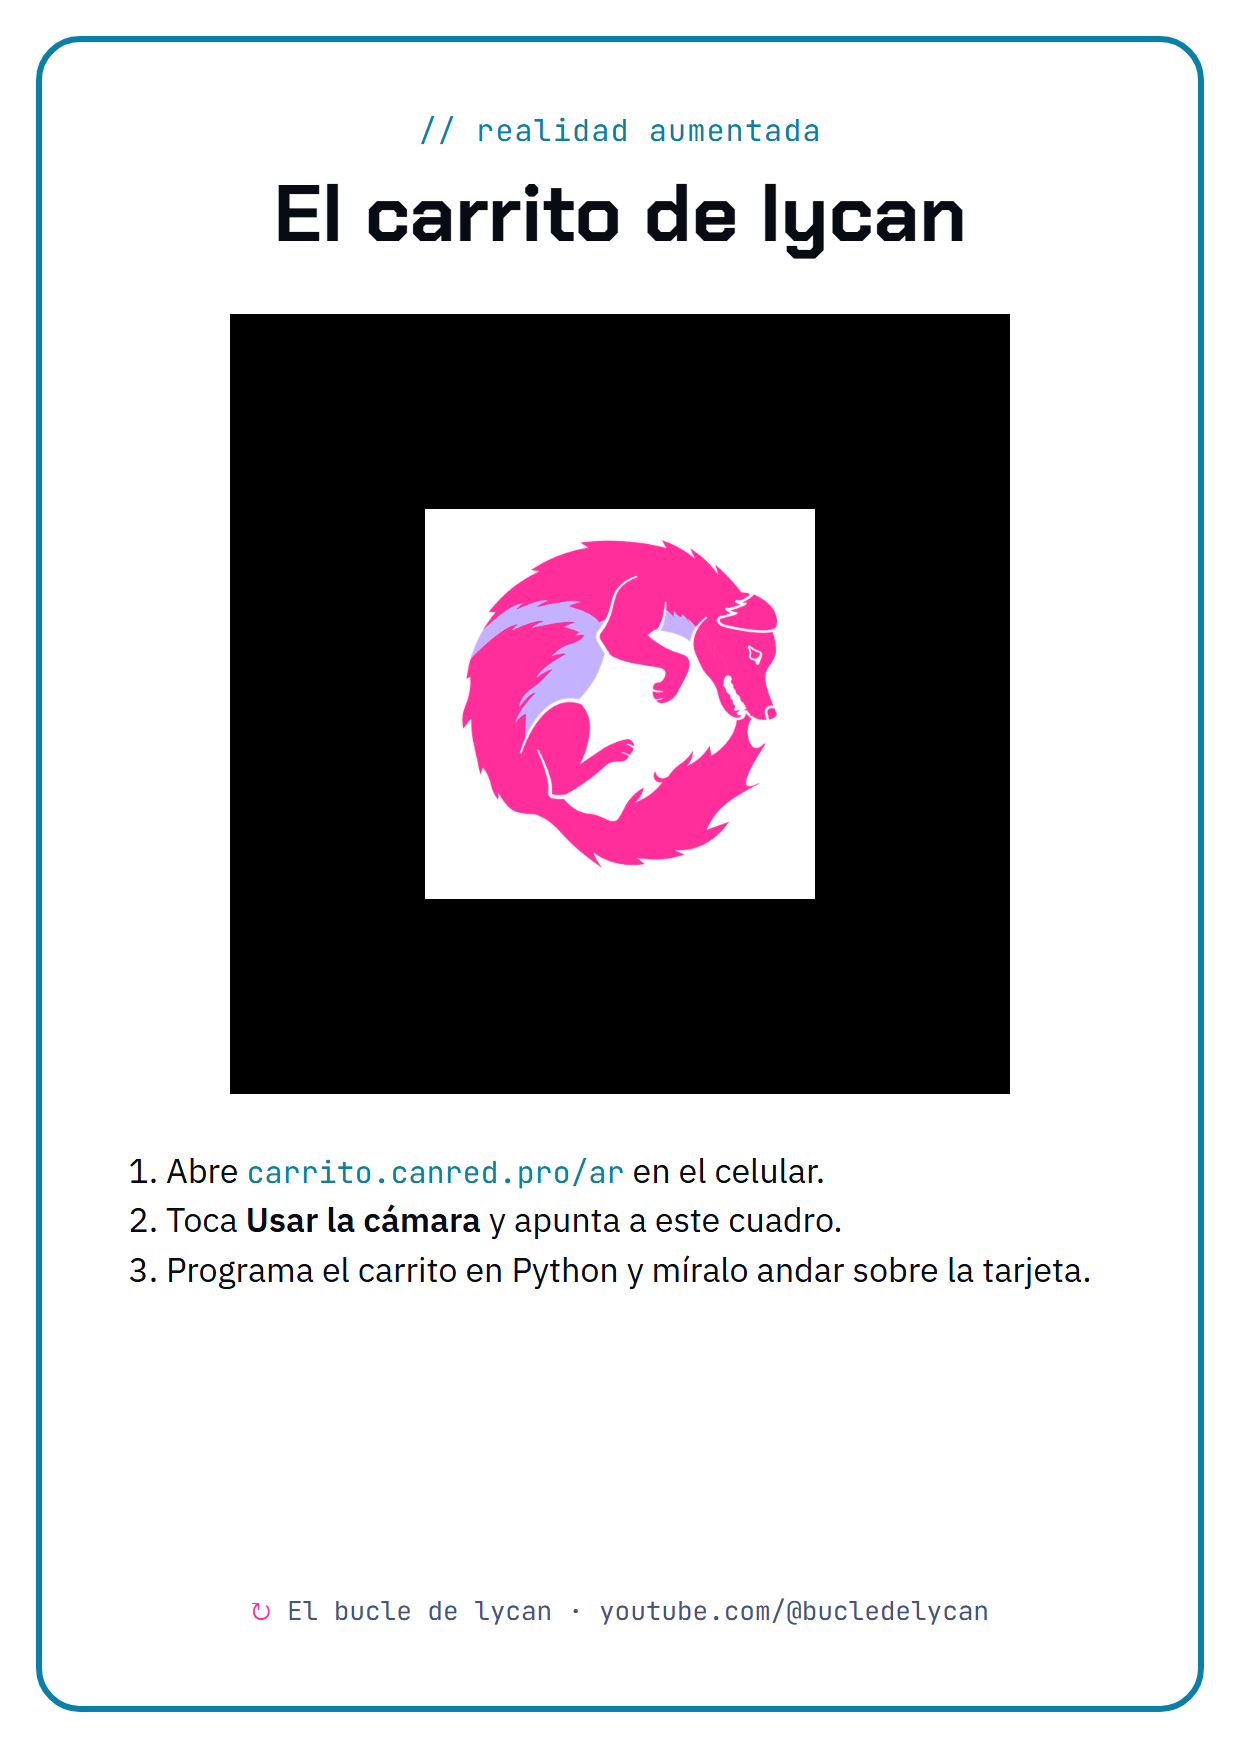
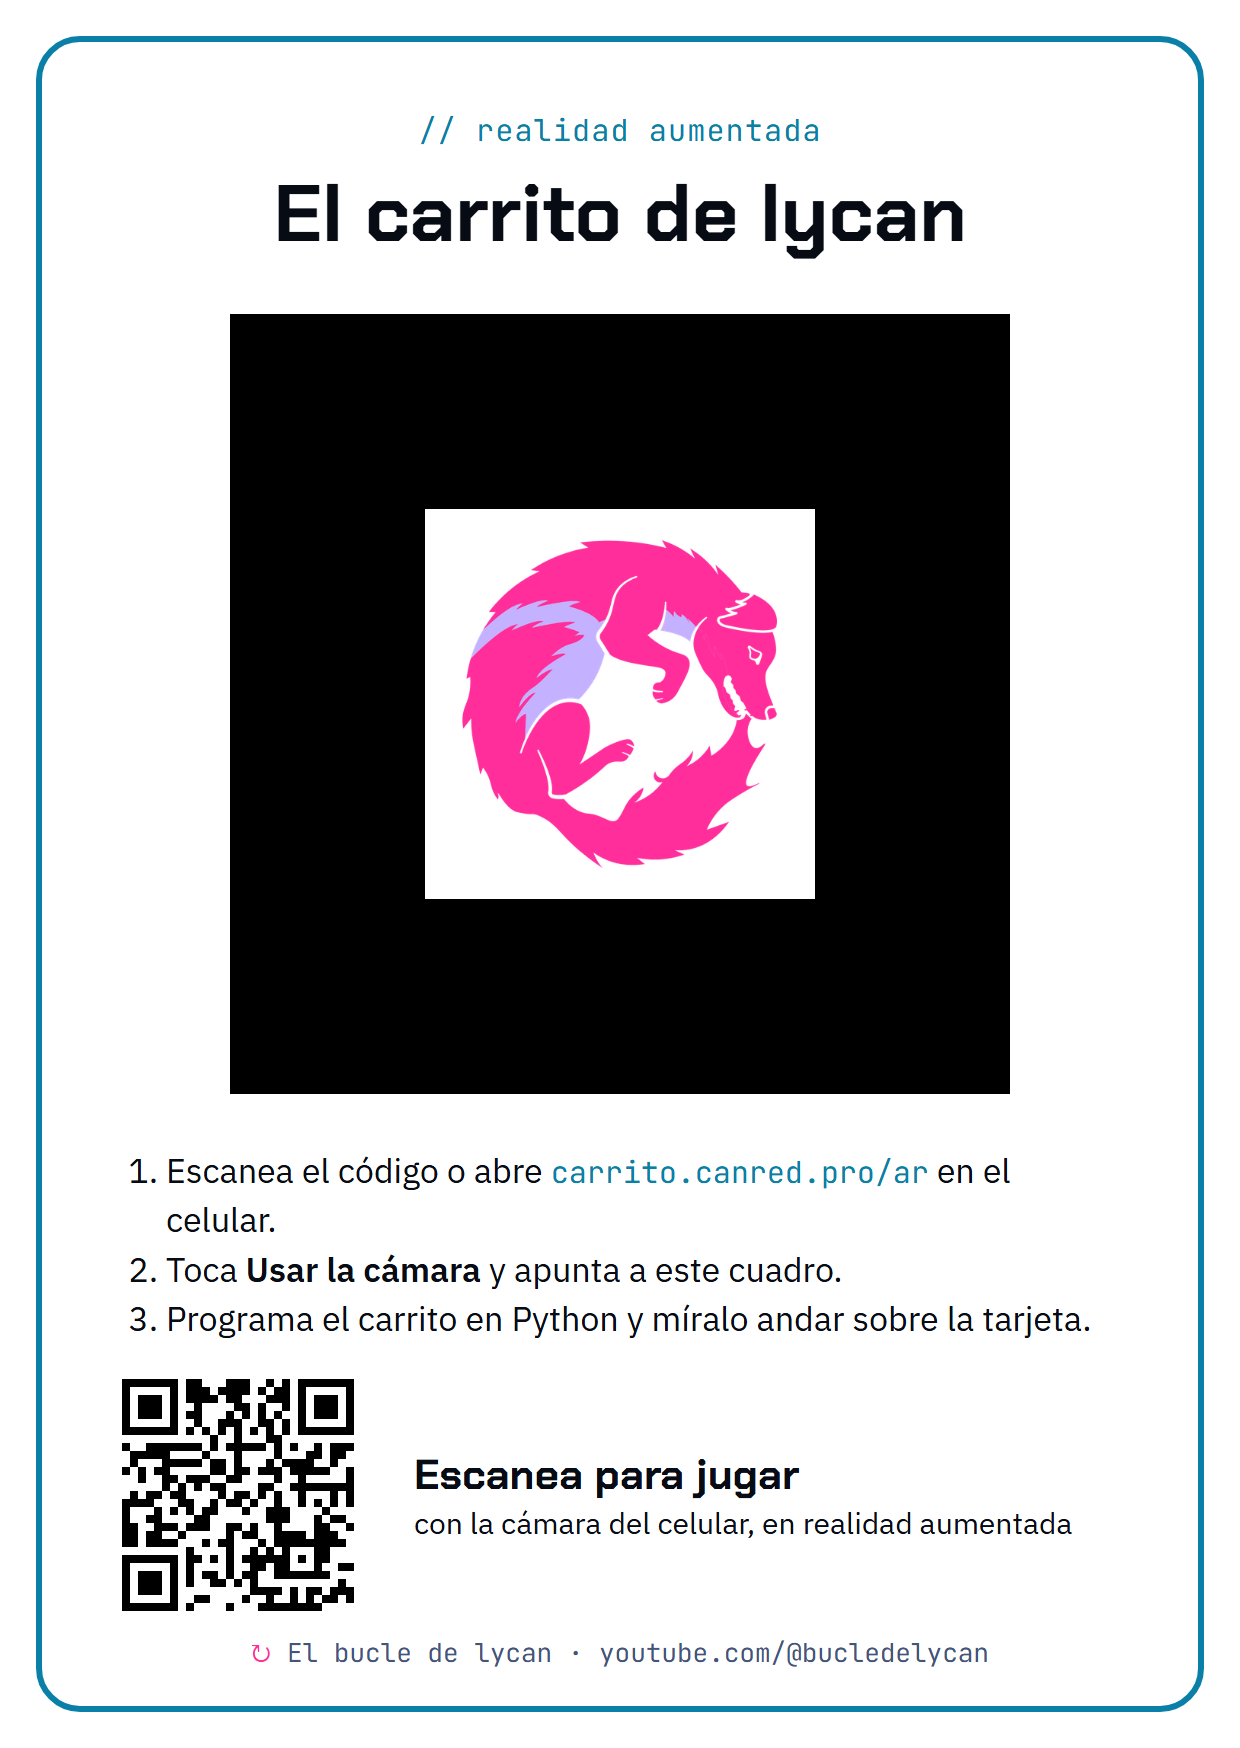
Realidad aumentada sin parpadeo ni temblor, y tarjeta con QR
La proyección de ARToolKit (near 0,0001) hacía titilar las capas de la
calle; la pose del marcador ahora se suaviza; la tarjeta lleva un QR a
carrito.canred.pro/ar y sus cuadrados ya no confunden la detección.

Changed region(s): [[0.0919, 0.6487, 0.8581, 0.9577], [0.3371, 0.8341, 0.8581, 0.9577]]

diff --git a/index.html b/index.html
@@ -2445,10 +2445,25 @@ async function rehacerContexto(){
   await new Promise(listo => nuevo.init(listo));
   const grupo = new THREE.Group();
   escena.add(grupo);
-  new modAR.ArMarkerControls(nuevo, grupo, {type:'pattern', patternUrl:'ar/tarjeta.patt', changeMatrixMode:'modelViewMatrix',
-    smooth:true, smoothCount:5, smoothTolerance:0.01, smoothThreshold:2});
+  new modAR.ArMarkerControls(nuevo, grupo, {type:'pattern', patternUrl:'ar/tarjeta.patt', changeMatrixMode:'modelViewMatrix'});
   if (marcador) escena.remove(marcador);
-  camara.projectionMatrix.copy(nuevo.getProjectionMatrix());
+  // ARToolKit arma la proyección con near 0,0001 y far 1000: así la profundidad no distingue capas que están a
+  // milímetros (la calle, sus rayas, la cebra, la losa) y titilan con la cámara en vivo. Near 0,05 y far 200,
+  // en lados de marcador, alcanzan de sobra para una tarjeta sobre la mesa.
+  const e = camara.projectionMatrix.copy(nuevo.getProjectionMatrix()).elements, cerca = 0.05, lejos = 200;
+  e[10] = -(lejos + cerca) / (lejos - cerca);
+  e[14] = -2 * lejos * cerca / (lejos - cerca);
+  camara.projectionMatrixInverse.copy(camara.projectionMatrix).invert();
+  // Los cuadrados de las esquinas del QR de la tarjeta también le parecen marcadores a ARToolKit: chicos y dudosos
+  // (en las pruebas, 75 px y confianza 0,59, contra 15.000 px y 0,995 del marcador). AR.js calcula la pose de cada
+  // candidato partiendo de la del anterior, así que uno malo arruinaba la del bueno. Ahora cada pose se calcula
+  // desde cero y los candidatos chicos o dudosos no llegan a AR.js.
+  const ar = nuevo.arController, avisar = ar.dispatchEvent.bind(ar);
+  ar.getTransMatSquareCont = ar.getTransMatSquare;
+  ar.dispatchEvent = ev => {
+    if (ev.name === 'getMarker' && ev.data.type === 0 && (ev.data.marker.cfPatt < 0.7 || ev.data.marker.area < 400)) return;
+    avisar(ev);
+  };
   contexto = nuevo; marcador = grupo; vertical = vh > vw; viendo = null;
 }
 
@@ -2497,8 +2512,7 @@ function cuadro(t){
     }
     if (fuente.ready && !rehaciendo) contexto.update(el);
     if (marcador.visible){
-      ancla.matrix.copy(marcador.matrix);
-      ancla.matrixWorldNeedsUpdate = true;
+      suavizar(marcador.matrix, t);
       ancla.visible = true;
     }
     if (marcador.visible !== viendo){
@@ -2515,6 +2529,24 @@ function cuadro(t){
   }
   animarCiudad(t);
   render.render(escena, camara);
+}
+
+// La pose del marcador trae ruido en cada cuadro, y como la ciudad mide varias veces la tarjeta, un temblor mínimo
+// del ángulo se nota en las orillas. Se sigue la pose con un paso que crece con lo que se movió: con la tarjeta
+// quieta casi no avanza (no tiembla) y al mover el celular la alcanza enseguida. Si se perdió un rato, salta.
+let pose = null, ultimaVista = -1e9;
+function suavizar(m, t){
+  pose ??= {p:new THREE.Vector3(), q:new THREE.Quaternion(), s:new THREE.Vector3(), P:new THREE.Vector3(), Q:new THREE.Quaternion(), S:new THREE.Vector3()};
+  m.decompose(pose.P, pose.Q, pose.S);
+  if (t - ultimaVista > 600){ pose.p.copy(pose.P); pose.q.copy(pose.Q); pose.s.copy(pose.S); }
+  else {
+    const mov = pose.p.distanceTo(pose.P) / Math.max(0.5, pose.p.length()), giro = pose.q.angleTo(pose.Q);
+    const paso = Math.min(1, 0.08 + mov * 4 + giro * 1.5);
+    pose.p.lerp(pose.P, paso); pose.q.slerp(pose.Q, paso); pose.s.lerp(pose.S, paso);
+  }
+  ultimaVista = t;
+  ancla.matrix.compose(pose.p, pose.q, pose.s);
+  ancla.matrixWorldNeedsUpdate = true;
 }
 
 // Sin cámara, el centro de la ciudad va al centro del espacio que dejan libre el nivel y el programa.
@@ -2623,8 +2655,8 @@ function construir(m){
   }
   instancias(new THREE.BoxGeometry(1, 1, 1), lambert(0xEEF3FC), franjas, ([x, y, h, o]) => {
     const [px, pz] = pos(x, y);
-    if (h){ P.set(px, 0.004, pz + o * s); E.set(s * 0.6, 0.004, s * 0.085); }
-    else { P.set(px + o * s, 0.004, pz); E.set(s * 0.085, 0.004, s * 0.6); }
+    if (h){ P.set(px, 0.005, pz + o * s); E.set(s * 0.6, 0.002, s * 0.085); }
+    else { P.set(px + o * s, 0.005, pz); E.set(s * 0.085, 0.002, s * 0.6); }
   });
 
   // edificios: tres tandas, cada una con sus ventanas; la azotea con el borde en neón
